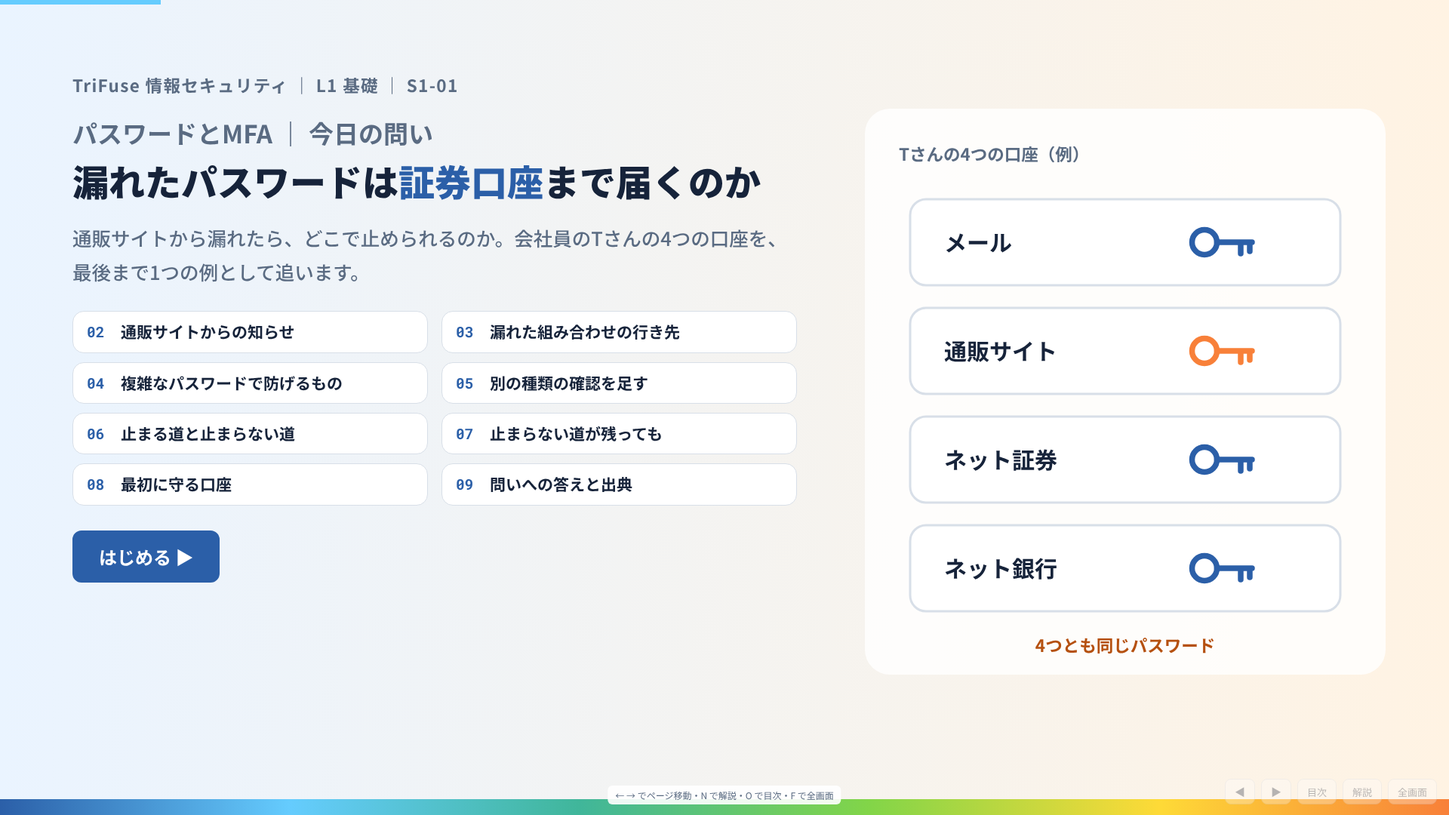
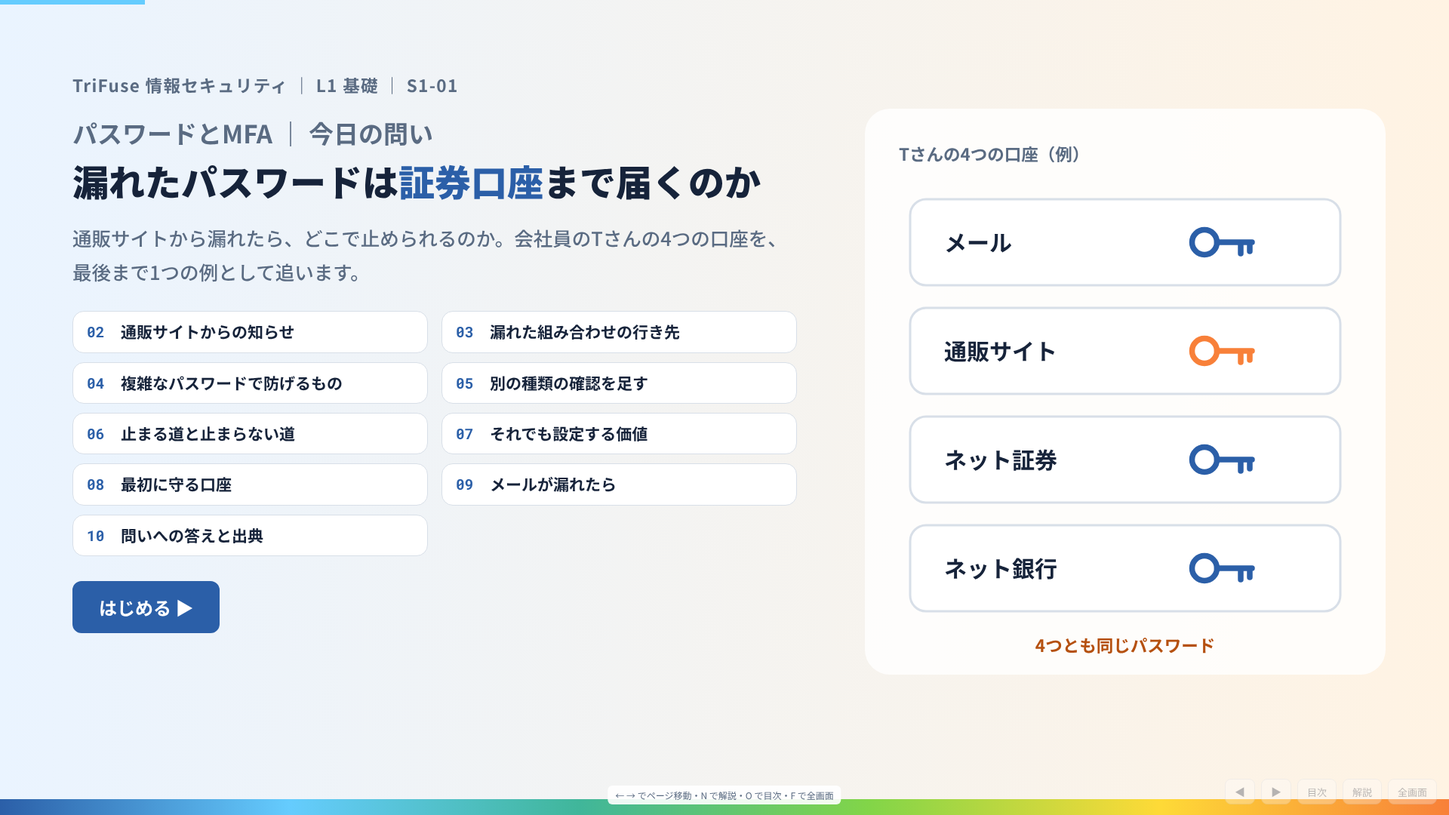
S1-01：9ページ目にメールが漏れたときのケース別を足す（10ページに、make_site v1.28）
Claude-Session: https://claude.ai/code/session_01KsCAt1ehjeTw2EQBVCmaiN

Changed region(s): [[0.0312, 0.6417, 0.1875, 0.7944], [0.3438, 0.5194, 0.4688, 0.55], [0.3438, 0.5806, 0.4375, 0.6111]]

diff --git a/list/index.html b/list/index.html
@@ -67,7 +67,7 @@ footer{margin-top:48px;padding-top:16px;border-top:1px solid var(--rule);font-si
 </div>
 <h3 class="lv" id="s1">L1 基礎（11本）</h3>
 <div class="cards">
-<article class="dk"><div class="top"><span class="code">S1-01</span><span class="pg">9ページ</span></div><a class="tt" href="../s1-01/">パスワードとMFA</a><ol><li><a href="../s1-01/#p1"><span>問い</span>漏れたパスワードは証券口座まで届くのか</a></li><li><a href="../s1-01/#p2"><span>02</span>Tさんの4つの口座は、同じメールアドレスと同じパスワード</a></li><li><a href="../s1-01/#p3"><span>03</span>漏れた組み合わせは、ほかのサービスのログイン画面でもまとめて試される</a></li><li><a href="../s1-01/#p4"><span>04</span>長く複雑にしても、漏れたパスワードはそのまま使われる</a></li><li><a href="../s1-01/#p5"><span>05</span>パスワードと別の種類の確認を足すと、漏れたパスワードだけでは入れない</a></li><li><a href="../s1-01/#p6"><span>06</span>多要素認証で止まるのは、相手がパスワードしか持っていない攻撃</a></li><li><a href="../s1-01/#p7"><span>07</span>止まらない攻撃が残っても、多要素認証は設定する価値がある</a></li><li><a href="../s1-01/#p8"><span>08</span>最初に直すのはメール。取られると、ほかの口座のパスワードまで変えられる</a></li><li><a href="../s1-01/#p9"><span>09</span>使い回すと届く。止めるのは、使い回さないことと多要素認証</a></li></ol></article>
+<article class="dk"><div class="top"><span class="code">S1-01</span><span class="pg">10ページ</span></div><a class="tt" href="../s1-01/">パスワードとMFA</a><ol><li><a href="../s1-01/#p1"><span>問い</span>漏れたパスワードは証券口座まで届くのか</a></li><li><a href="../s1-01/#p2"><span>02</span>Tさんの4つの口座は、同じメールアドレスと同じパスワード</a></li><li><a href="../s1-01/#p3"><span>03</span>漏れた組み合わせは、ほかのサービスのログイン画面でもまとめて試される</a></li><li><a href="../s1-01/#p4"><span>04</span>長く複雑にしても、漏れたパスワードはそのまま使われる</a></li><li><a href="../s1-01/#p5"><span>05</span>パスワードと別の種類の確認を足すと、漏れたパスワードだけでは入れない</a></li><li><a href="../s1-01/#p6"><span>06</span>多要素認証で止まるのは、相手がパスワードしか持っていない攻撃</a></li><li><a href="../s1-01/#p7"><span>07</span>止まらない攻撃が残っても、多要素認証は設定する価値がある</a></li><li><a href="../s1-01/#p8"><span>08</span>最初に直すのはメール。取られると、ほかの口座のパスワードまで変えられる</a></li><li><a href="../s1-01/#p9"><span>09</span>Gmail のパスワードを渡してしまったら、危なさは3つに分かれる</a></li><li><a href="../s1-01/#p10"><span>10</span>使い回すと届く。止めるのは、使い回さないことと多要素認証</a></li></ol></article>
 <article class="dk"><div class="top"><span class="code">S1-02</span><span class="pg">8ページ</span></div><a class="tt" href="../s1-02/">パスワード管理ツールという解</a><ol><li><a href="../s1-02/#p1"><span>問い</span>全部違うパスワードをどう使い続けるか</a></li><li><a href="../s1-02/#p2"><span>02</span>30個の長くてばらばらな文字列は、頭だけでは覚えておけない</a></li><li><a href="../s1-02/#p3"><span>03</span>書き留める方法は、書く場所と置く場所しだいで使える方法になる</a></li><li><a href="../s1-02/#p4"><span>04</span>管理ツールがしていることは、保管・生成・入力の3つ</a></li><li><a href="../s1-02/#p5"><span>05</span>30個の鍵が1つの鍵の後ろにまとまり、その1つが破られると全部開く</a></li><li><a href="../s1-02/#p6"><span>06</span>開く口座の数はどれも全部で、違うのは破られる入口の数</a></li><li><a href="../s1-02/#p7"><span>07</span>道具は製品の名前ではなく、5つの点を説明書きや設定画面で確かめる</a></li><li><a href="../s1-02/#p8"><span>08</span>道具に生成と保管を任せ、集まった1か所に守りを集める</a></li></ol></article>
 <article class="dk"><div class="top"><span class="code">S1-03</span><span class="pg">8ページ</span></div><a class="tt" href="../s1-03/">フィッシングと偽サイトの確認手順</a><ol><li><a href="../s1-03/#p1"><span>問い</span>本物そっくりの知らせに何を見て、どう動くか</a></li><li><a href="../s1-03/#p2"><span>02</span>平日の夜、取引しているネット証券の名前でショートメッセージが届いた</a></li><li><a href="../s1-03/#p3"><span>03</span>文面のうまさは目印にならず、見分けの失敗にも気づけない</a></li><li><a href="../s1-03/#p4"><span>04</span>相手の出来ではなく、本物の金融機関ならしないことに当てはまるかを見る</a></li><li><a href="../s1-03/#p5"><span>05</span>知らせのリンクからは入らず、自分の側から証券会社の画面を開く</a></li><li><a href="../s1-03/#p6"><span>06</span>最初の一度は、住所のドメインとアプリの提供元を読む</a></li><li><a href="../s1-03/#p7"><span>07</span>見た目で見分けるのをやめ、相手の側から照らし合わせる</a></li><li><a href="../s1-03/#p8"><span>08</span>本物がしないことで判別し、自分で用意した入口から入る</a></li></ol></article>
 <article class="dk"><div class="top"><span class="code">S1-04</span><span class="pg">9ページ</span></div><a class="tt" href="../s1-04/">OSとアプリを更新する意味</a><ol><li><a href="../s1-04/#p1"><span>問い</span>更新の通知はどれくらい後回しにしてよいか</a></li><li><a href="../s1-04/#p2"><span>02</span>鍵が強くても、端末に穴があれば、相手は鍵を通らずに入る</a></li><li><a href="../s1-04/#p3"><span>03</span>更新の中身の中心は、新しい機能ではなく、見つかった穴を塞ぐこと</a></li><li><a href="../s1-04/#p4"><span>04</span>修正が出た後は、穴の場所を誰でも知ることができる</a></li><li><a href="../s1-04/#p5"><span>05</span>後回しにした期間が長いほど、危険は大きくなる</a></li><li><a href="../s1-04/#p6"><span>06</span>配布が終わった端末では、穴が見つかっても二度と塞がらない</a></li><li><a href="../s1-04/#p7"><span>07</span>S0-EX で数えた入口を、更新する順に並べ直し、自動更新に任せる</a></li><li><a href="../s1-04/#p8"><span>08</span>防げない穴が残るなら、その穴から届く範囲を決めておく</a></li><li><a href="../s1-04/#p9"><span>09</span>配られたら早いうちに。仕組みに任せ、塞げない端末は切り離す</a></li></ol></article>
@@ -303,7 +303,7 @@ footer{margin-top:48px;padding-top:16px;border-top:1px solid var(--rule);font-si
 <article class="dk"><div class="top"><span class="code">E3-EX</span><span class="pg">7ページ</span></div><a class="tt" href="../e3-ex/">卒業課題：波及経路と反証条件を明示して読む</a><ol><li><a href="../e3-ex/#p1"><span>問い</span>読み筋を三手先まで、外れる条件つきで書く</a></li><li><a href="../e3-ex/#p2"><span>02</span>1本のニュースから、1つの読み筋を三手先まで、条件と外れる条件つきで</a></li><li><a href="../e3-ex/#p3"><span>03</span>書くことは5つ。中心は三手の読み筋と、段ごとの出典</a></li><li><a href="../e3-ex/#p4"><span>04</span>三手を経路の名前で書き、対立する見方と反証条件を添える</a></li><li><a href="../e3-ex/#p5"><span>05</span>運営が見るのは、3つの評価軸だけ。当たり外れは見ない</a></li><li><a href="../e3-ex/#p6"><span>06</span>題材は、官公庁や中央銀行の決定や統計を報じた公表済みのニュースに限る</a></li><li><a href="../e3-ex/#p7"><span>07</span>三手の読み筋を、段ごとの出典、対立する見方、反証条件で支える</a></li></ol></article>
 </div>
 </section>
-<footer>make_site v1.27（s0-01 50c2e74a・s0-02 2e95fb85・s0-ex f2a050db・a0-01 30b2ef9f・a0-02 78939ab9・a0-ex e6d43d4a・f0-01 23dde620・f0-02 466eb6ce・f0-03 c23f17cb・f0-04 93c8d941・f0-ex cd29c841・e0-01 535e488a・e0-02 5b2a3c6a・e0-ex 70aa4361・f1-01 b1ec7614・f1-02 4248ca1f・f1-03 e6e039cd・f1-04 368722ae・f1-05 02fb2ad5・f1-06 9df6d592・f1-07 f7a43dd8・f1-08 fb1232a5・f1-09 1fbb41cd・f1-10 af3f724b・s1-01 8301629d・s1-02 c4ace705・s1-03 8658725b・s1-04 1f29bea3・s1-05 d9ac88dd・s1-06 4d6f40f9・s1-07 95ee285b・s1-08 63af92dc・s1-09 24c21369・s1-10 9bf7b858・s1-ex 2dfb9175・s2-01 7470b37d・s2-02 7f980b8d・s2-03 fa460cf1・s2-04 7ffccece・s2-05 77ae8dc8・s2-06 7869209f・s2-07 7caf2a14・s2-08 4cd032ba・s2-ex 2f635534・s3-01 da4874a0・s3-02 259b2144・s3-03 93bee158・s3-04 03857286・s3-05 9c42f2e6・s3-ex 76a0d264・e1-01 fc9b31af・e1-02 5c5e348d・e1-03 f86e2122・e1-04 194b747e・e1-05 c1cf74e7・e1-06 bd4efdfd・e1-07 1fe7a9b3・e1-08 0a1dd70c・e1-09 50465a95・e1-10 e3c3ba2a・e1-11 4628654f・e1-12 245bc4da・e1-13 ab06cdf1・e1-14 044a8cbd・e1-15 de018357・e1-ex 89614912・e2-01 975ae973・e2-02 7dcfab0f・e2-03 b7b9740d・e2-04 a0c0fb98・e2-05 b945e59f・e2-06 1c936bb3・e2-07 f6f75079・e2-08 764212d4・e2-09 468568ed・e2-10 14f22e24・e2-11 65fec2db・e2-12 df8c0d86・e2-13 2373069f・e2-14 ff93b6b6・e2-15 e479bb8b・e2-16 cb75bd6b・e2-ex 6f46024e・e3-01 d52bfad5・e3-02 0c58a283・e3-03 9bcc544b・e3-04 0a2f126d・e3-05 86b81abc・e3-06 55349d35・e3-07 8c4f6452・e3-08 b99023ff・e3-09 1ea73cfd・e3-10 130f9a3c・e3-11 5dc98598・e3-12 5aca9351・e3-ex f8f0f251・a1-01 68d581dd・a1-02 2eeea5a8・a1-03 dd2515aa・a1-04 de7e056e・a1-05 753451d6・a1-06 8b516ba0・a1-07 adc351e2・a1-08 b57ade39・a1-09 4f46370e・a1-10 f8bde4ba・a1-11 6d1ac03b・a1-12 e2b1858f・a1-13 394cf086・a1-14 0d8a5118・a1-15 61883536・a1-ex 5a31e835・a2-01 485b79c6・a2-02 f2960554・a2-03 a0b903a1・a2-04 3cbc8980・a2-05 34fb165d・a2-06 612fdedc・a2-07 e5cc3416・a2-08 d6aceae6・a2-09 a963fcb9・a2-10 fb538646・a2-11 b8d90223・a2-12 318d8d56・a2-13 45a48123・a2-14 5aaf12a2・a2-15 43175f4e・a2-ex 8b384fc0・a3-01 7888de0a・a3-02 f2db5215・a3-03 a34a814a・a3-04 7e45d770・a3-05 db0a0bbb・a3-06 8aabccfb・a3-07 b32d217e・a3-08 62e132bf・a3-09 b63f1fd4・a3-ex b555a2f9・f1-11 4b3ff8bd・f1-12 f3f86691・f1-13 815f7bdb・f1-14 8ccc8ff5・f1-15 500715f7・f1-16 357fca0f・f1-17 558ea82c・f1-18 a9a7c3b0・f1-19 18ccc510・f1-20 ed9f4f46・f1-21 47e66df5・f1-ex a5aa7e87・f2-01 7b7753f1・f2-02 0a5c108f・f2-03 f8443962・f2-04 8383e45b・f2-05 4906fbea・f2-06 6d34c7d4・f2-07 3ef5bdf6・f2-08 8793d7d5・f2-09 73bc4a2e・f2-10 735a24c6・f2-11 55e826f9・f2-12 48038aeb・f2-13 b78d1a7c・f2-14 620bfa7b・f2-15 680d8937・f2-16 d8683e4d・f2-17 361013fd・f2-18 52920b59・f2-19 b5989e18・f2-20 8d1165b5・f2-21 735b847d・f2-ex a68b9c76・f3-01 fa5fa1f5・f3-02 50b2f21f・f3-03 5a822b7b・f3-04 634a6316・f3-05 3b3f0a4b・f3-06 b58c204e・f3-07 8182bd1b・f3-08 a7c8b43a・f3-09 12ed2900・f3-10 6cdd39f6・f3-11 d6827457・f3-12 06a24e81・f3-13 974d8c4d・f3-14 7a5d4bd0・f3-15 e2d7719f・f3-16 8abb0893・f3-ex f4736045）</footer>
+<footer>make_site v1.28（s0-01 50c2e74a・s0-02 2e95fb85・s0-ex f2a050db・a0-01 30b2ef9f・a0-02 78939ab9・a0-ex e6d43d4a・f0-01 23dde620・f0-02 466eb6ce・f0-03 c23f17cb・f0-04 93c8d941・f0-ex cd29c841・e0-01 535e488a・e0-02 5b2a3c6a・e0-ex 70aa4361・f1-01 b1ec7614・f1-02 4248ca1f・f1-03 e6e039cd・f1-04 368722ae・f1-05 02fb2ad5・f1-06 9df6d592・f1-07 f7a43dd8・f1-08 fb1232a5・f1-09 1fbb41cd・f1-10 af3f724b・s1-01 a51aae27・s1-02 c4ace705・s1-03 8658725b・s1-04 1f29bea3・s1-05 d9ac88dd・s1-06 4d6f40f9・s1-07 95ee285b・s1-08 63af92dc・s1-09 24c21369・s1-10 9bf7b858・s1-ex 2dfb9175・s2-01 7470b37d・s2-02 7f980b8d・s2-03 fa460cf1・s2-04 7ffccece・s2-05 77ae8dc8・s2-06 7869209f・s2-07 7caf2a14・s2-08 4cd032ba・s2-ex 2f635534・s3-01 da4874a0・s3-02 259b2144・s3-03 93bee158・s3-04 03857286・s3-05 9c42f2e6・s3-ex 76a0d264・e1-01 fc9b31af・e1-02 5c5e348d・e1-03 f86e2122・e1-04 194b747e・e1-05 c1cf74e7・e1-06 bd4efdfd・e1-07 1fe7a9b3・e1-08 0a1dd70c・e1-09 50465a95・e1-10 e3c3ba2a・e1-11 4628654f・e1-12 245bc4da・e1-13 ab06cdf1・e1-14 044a8cbd・e1-15 de018357・e1-ex 89614912・e2-01 975ae973・e2-02 7dcfab0f・e2-03 b7b9740d・e2-04 a0c0fb98・e2-05 b945e59f・e2-06 1c936bb3・e2-07 f6f75079・e2-08 764212d4・e2-09 468568ed・e2-10 14f22e24・e2-11 65fec2db・e2-12 df8c0d86・e2-13 2373069f・e2-14 ff93b6b6・e2-15 e479bb8b・e2-16 cb75bd6b・e2-ex 6f46024e・e3-01 d52bfad5・e3-02 0c58a283・e3-03 9bcc544b・e3-04 0a2f126d・e3-05 86b81abc・e3-06 55349d35・e3-07 8c4f6452・e3-08 b99023ff・e3-09 1ea73cfd・e3-10 130f9a3c・e3-11 5dc98598・e3-12 5aca9351・e3-ex f8f0f251・a1-01 68d581dd・a1-02 2eeea5a8・a1-03 dd2515aa・a1-04 de7e056e・a1-05 753451d6・a1-06 8b516ba0・a1-07 adc351e2・a1-08 b57ade39・a1-09 4f46370e・a1-10 f8bde4ba・a1-11 6d1ac03b・a1-12 e2b1858f・a1-13 394cf086・a1-14 0d8a5118・a1-15 61883536・a1-ex 5a31e835・a2-01 485b79c6・a2-02 f2960554・a2-03 a0b903a1・a2-04 3cbc8980・a2-05 34fb165d・a2-06 612fdedc・a2-07 e5cc3416・a2-08 d6aceae6・a2-09 a963fcb9・a2-10 fb538646・a2-11 b8d90223・a2-12 318d8d56・a2-13 45a48123・a2-14 5aaf12a2・a2-15 43175f4e・a2-ex 8b384fc0・a3-01 7888de0a・a3-02 f2db5215・a3-03 a34a814a・a3-04 7e45d770・a3-05 db0a0bbb・a3-06 8aabccfb・a3-07 b32d217e・a3-08 62e132bf・a3-09 b63f1fd4・a3-ex b555a2f9・f1-11 4b3ff8bd・f1-12 f3f86691・f1-13 815f7bdb・f1-14 8ccc8ff5・f1-15 500715f7・f1-16 357fca0f・f1-17 558ea82c・f1-18 a9a7c3b0・f1-19 18ccc510・f1-20 ed9f4f46・f1-21 47e66df5・f1-ex a5aa7e87・f2-01 7b7753f1・f2-02 0a5c108f・f2-03 f8443962・f2-04 8383e45b・f2-05 4906fbea・f2-06 6d34c7d4・f2-07 3ef5bdf6・f2-08 8793d7d5・f2-09 73bc4a2e・f2-10 735a24c6・f2-11 55e826f9・f2-12 48038aeb・f2-13 b78d1a7c・f2-14 620bfa7b・f2-15 680d8937・f2-16 d8683e4d・f2-17 361013fd・f2-18 52920b59・f2-19 b5989e18・f2-20 8d1165b5・f2-21 735b847d・f2-ex a68b9c76・f3-01 fa5fa1f5・f3-02 50b2f21f・f3-03 5a822b7b・f3-04 634a6316・f3-05 3b3f0a4b・f3-06 b58c204e・f3-07 8182bd1b・f3-08 a7c8b43a・f3-09 12ed2900・f3-10 6cdd39f6・f3-11 d6827457・f3-12 06a24e81・f3-13 974d8c4d・f3-14 7a5d4bd0・f3-15 e2d7719f・f3-16 8abb0893・f3-ex f4736045）</footer>
 </main>
 <script>
 (()=>{const $=(s,r=document)=>r.querySelector(s),$$=(s,r=document)=>[...r.querySelectorAll(s)];

diff --git a/s1-01/index.html b/s1-01/index.html
@@ -339,7 +339,7 @@ svg .sv{transform:none}
       <div class="cover-q fade d2">パスワードとMFA ｜ 今日の問い</div>
       <h1 class="head fade d2">漏れたパスワードは<span class="hl2">証券口座</span>まで届くのか</h1>
       <p class="sub fade d3">通販サイトから漏れたら、どこで止められるのか。会社員のTさんの4つの口座を、最後まで1つの例として追います。</p>
-      <div class="toc fade d4"><button data-go="1"><span class="n">02</span>通販サイトからの知らせ</button><button data-go="2"><span class="n">03</span>漏れた組み合わせの行き先</button><button data-go="3"><span class="n">04</span>複雑なパスワードで防げるもの</button><button data-go="4"><span class="n">05</span>別の種類の確認を足す</button><button data-go="5"><span class="n">06</span>止まる道と止まらない道</button><button data-go="6"><span class="n">07</span>止まらない道が残っても</button><button data-go="7"><span class="n">08</span>最初に守る口座</button><button data-go="8"><span class="n">09</span>問いへの答えと出典</button></div>
+      <div class="toc fade d4"><button data-go="1"><span class="n">02</span>通販サイトからの知らせ</button><button data-go="2"><span class="n">03</span>漏れた組み合わせの行き先</button><button data-go="3"><span class="n">04</span>複雑なパスワードで防げるもの</button><button data-go="4"><span class="n">05</span>別の種類の確認を足す</button><button data-go="5"><span class="n">06</span>止まる道と止まらない道</button><button data-go="6"><span class="n">07</span>それでも設定する価値</button><button data-go="7"><span class="n">08</span>最初に守る口座</button><button data-go="8"><span class="n">09</span>メールが漏れたら</button><button data-go="9"><span class="n">10</span>問いへの答えと出典</button></div>
       <button class="btn pr start fade d5" data-go="1">はじめる ▶</button>
     </div>
     <svg class="cover-ill" viewBox="0 0 460 500" aria-label="4つの口座に同じ鍵"><rect width="460" height="500" rx="22" fill="#fff" opacity=".8"/><g transform="scale(0.666667)"><text x="45" y="69" font-size="22.5" font-weight="700" fill="#5A6B82">Tさんの4つの口座（例）</text></g><rect x="40" y="80" width="380" height="76" rx="14" fill="#fff" stroke="#D8DFE8" stroke-width="2"/><g transform="scale(0.666667)"><text x="105" y="189" font-size="30" font-weight="700" fill="#16233A">メール</text></g><g transform="translate(300 118) scale(1.0)"><circle cx="0" cy="0" r="11" fill="none" stroke="#2B5FA8" stroke-width="5"/><path d="M11 0H42M32 0V10M40 0V8" stroke="#2B5FA8" stroke-width="5" stroke-linecap="round"/></g><rect x="40" y="176" width="380" height="76" rx="14" fill="#fff" stroke="#D8DFE8" stroke-width="2"/><g transform="scale(0.666667)"><text x="105" y="333" font-size="30" font-weight="700" fill="#16233A">通販サイト</text></g><g transform="translate(300 214) scale(1.0)"><circle cx="0" cy="0" r="11" fill="none" stroke="#F88039" stroke-width="5"/><path d="M11 0H42M32 0V10M40 0V8" stroke="#F88039" stroke-width="5" stroke-linecap="round"/></g><rect x="40" y="272" width="380" height="76" rx="14" fill="#fff" stroke="#D8DFE8" stroke-width="2"/><g transform="scale(0.666667)"><text x="105" y="477" font-size="30" font-weight="700" fill="#16233A">ネット証券</text></g><g transform="translate(300 310) scale(1.0)"><circle cx="0" cy="0" r="11" fill="none" stroke="#2B5FA8" stroke-width="5"/><path d="M11 0H42M32 0V10M40 0V8" stroke="#2B5FA8" stroke-width="5" stroke-linecap="round"/></g><rect x="40" y="368" width="380" height="76" rx="14" fill="#fff" stroke="#D8DFE8" stroke-width="2"/><g transform="scale(0.666667)"><text x="105" y="621" font-size="30" font-weight="700" fill="#16233A">ネット銀行</text></g><g transform="translate(300 406) scale(1.0)"><circle cx="0" cy="0" r="11" fill="none" stroke="#2B5FA8" stroke-width="5"/><path d="M11 0H42M32 0V10M40 0V8" stroke="#2B5FA8" stroke-width="5" stroke-linecap="round"/></g><g transform="scale(0.666667)"><text x="345" y="720" text-anchor="middle" font-size="22.5" font-weight="700" fill="#B5500F">4つとも同じパスワード</text></g></svg>
@@ -508,8 +508,22 @@ svg .sv{transform:none}
   </div>
 </section>
 
-<section id="p9" class="slide page hasbr" data-n="sum">
-  <header class="hd"><span class="chap">問いへの答えと出典</span><h2 class="head">使い回すと届く。止めるのは、使い回さないことと多要素認証</h2><span class="num">09</span></header><p class="bridge"><b class="bk">今日の問い</b><span>通販サイトから漏れたパスワードは、証券口座まで届くのか。届くなら、どこで止められるのか</span></p>
+<section id="p9" class="slide page hasbr" data-n="s6b" data-steps="3">
+  <header class="hd"><span class="chap">6. 最初に守る口座</span><h2 class="head">Gmail のパスワードを渡してしまったら、危なさは3つに分かれる</h2><span class="num">09</span></header><p class="bridge"><b class="bk">前で分かったこと</b><span>メールに入られると、証券口座のパスワードも作り直される</span><i class="ar">→</i><b class="bk now">ここで見ること</b><span>偽サイトで Gmail のパスワードを打ってしまったら</span></p>
+  <div class="body" style="display:flex;flex-direction:column;gap:15px">
+    <div class="quote fade d1">Tさんが偽のログイン画面に、Gmail のアドレスとパスワードを打ってしまった。証券口座の登録アドレスは、この Gmail のまま。</div>
+    <div class="stepbar"><b style="font-size:22.5px">ケースごとに見る</b><button class="btn pr" data-next>次の段階 ▶</button><button class="btn" data-reset>はじめから</button><span class="hint">→キーでも進みます</span></div>
+    <div class="card fade d2" style="padding:6px 12px">
+      <table class="atk" style="width:100%;border-collapse:collapse">
+        <tr><th style="text-align:left;padding:10px 18px;font-size:21px;color:#5A6B82;border-bottom:3px solid #D8DFE8;width:27%">ケース</th><th style="text-align:left;padding:10px 18px;font-size:21px;color:#5A6B82;border-bottom:3px solid #D8DFE8;width:25%">証券口座は</th><th style="text-align:left;padding:10px 18px;font-size:21px;color:#5A6B82;border-bottom:3px solid #D8DFE8">やること</th></tr>
+        <tr><td style="padding:15px 18px;border-bottom:1.5px solid #D8DFE8;font-size:21px;line-height:1.55;vertical-align:top;font-weight:700;color:var(--ink)">A. Gmail に多要素認証を付けていた</td><td style="padding:15px 18px;border-bottom:1.5px solid #D8DFE8;font-size:21px;line-height:1.55;vertical-align:top;background:#E7F6F1;color:#1F7A63;font-weight:700">守られる<br><span style="font-weight:400;font-size:18px">相手は確認コードが無く、Gmail に入れない</span></td><td style="padding:15px 18px;border-bottom:1.5px solid #D8DFE8;font-size:21px;line-height:1.55;vertical-align:top">Gmail のパスワードを変える。<br>登録アドレスはそのままでよい。<br><span style="font-size:18px;color:#5A6B82">※確認コードまで偽の画面に打っていたら B と同じ</span></td></tr><tr class="sv" data-s="1"><td style="padding:15px 18px;border-bottom:1.5px solid #D8DFE8;font-size:21px;line-height:1.55;vertical-align:top;font-weight:700;color:var(--ink)">B. 多要素認証なし。すぐ気づいて Gmail を取り戻せた</td><td style="padding:15px 18px;border-bottom:1.5px solid #D8DFE8;font-size:21px;line-height:1.55;vertical-align:top;background:#FDF1E7;color:#B5500F;font-weight:700">危ない<br><span style="font-weight:400;font-size:18px">証券口座の再設定メールを読まれるおそれ</span></td><td style="padding:15px 18px;border-bottom:1.5px solid #D8DFE8;font-size:21px;line-height:1.55;vertical-align:top">Gmail のパスワードを変え、ほかの端末のログインを切る。多要素認証を付け、転送の設定を確かめる。<br>取り戻せれば、登録アドレスはそのままでよい。</td></tr><tr class="sv" data-s="2"><td style="padding:15px 18px;border-bottom:1.5px solid #D8DFE8;font-size:21px;line-height:1.55;vertical-align:top;font-weight:700;color:var(--ink)">C. Gmail を取り戻せない（復旧用の連絡先まで書き換えられた）</td><td style="padding:15px 18px;border-bottom:1.5px solid #D8DFE8;font-size:21px;line-height:1.55;vertical-align:top;background:#FBE9E7;color:#B42318;font-weight:700">とても危ない<br><span style="font-weight:400;font-size:18px">証券口座の再設定を相手に握られたまま</span></td><td style="padding:15px 18px;border-bottom:1.5px solid #D8DFE8;font-size:21px;line-height:1.55;vertical-align:top">すぐ証券会社に連絡して取引を止めてもらい、登録アドレスを別のものに変えてもらう。</td></tr>
+      </table>
+    </div>
+    <div class="sv" data-s="3"><p class="ans"><b>要は</b>アドレスを変えるかより先に、Gmail に入られないこと、入られたらすぐ取り戻すこと</p></div>
+  </div>
+</section>
+<section id="p10" class="slide page hasbr" data-n="sum">
+  <header class="hd"><span class="chap">問いへの答えと出典</span><h2 class="head">使い回すと届く。止めるのは、使い回さないことと多要素認証</h2><span class="num">10</span></header><p class="bridge"><b class="bk">今日の問い</b><span>通販サイトから漏れたパスワードは、証券口座まで届くのか。届くなら、どこで止められるのか</span></p>
   <div class="body sumb" style="display:grid;grid-template-columns:1.15fr 1fr;gap:33px">
     <div class="kp" style="gap:15px">
       <div class="card fade d1 a3"><span class="no">1</span><div><h4>使い回していれば、証券口座まで届く</h4><p>使い回していなければ、被害は通販サイト1つで止まる</p></div></div><div class="card fade d2 a3"><span class="no">2</span><div><h4>多要素認証で、漏れたパスワードだけでは入れない</h4><p>ただし、偽の画面や乗っ取られた端末では止まらない</p></div></div><div class="card fade d3 a3"><span class="no">3</span><div><h4>最初に守るのはメール</h4><p>取られると、ほかの口座のパスワードまで変えられる</p></div></div>
@@ -577,6 +591,7 @@ svg .sv{transform:none}
 <p>S0-EX で入口を数えたとき、メールアドレスがほかのサービスの「パスワードを忘れた方」の届け先になっていることに気づいた人も多いはずです。メールに入られると、相手は証券口座や銀行のパスワードを知らなくても、再設定の手続きで新しいパスワードを決められます。メールの鍵は、ほかの口座の鍵を作り直せる親の鍵にあたります。この親子の関係を詳しく見るのは S2-08 です。</p>
 <p>Tさんがまずやることは、メールのパスワードをほかのどこでも使っていないものに変えることと、メールに多要素認証を設定することです。証券口座と銀行はその次になります。</p>
 <p>ただ、4つのサービスにそれぞれ違う長いパスワードを付けると、今度は覚えきれなくなります。次の S1-02 では、全部違うパスワードを無理なく使い続けるための道具を扱います。</p></div>
+<div class="notes-src" id="notes-s6b"><h5 style="font-size:15px;margin:8px 0 6px">メールが漏れたら（ケース別）</h5><p>Tさんが偽のログイン画面に Gmail のアドレスとパスワードを打ってしまった場合を、3つに分けます。A：Gmail に多要素認証を付けていれば、相手は確認コードが無いので Gmail に入れません。Gmail のパスワードを変えれば済み、証券口座の登録アドレスはそのままでかまいません。ただし、確認コードまで偽の画面に打っていた場合は B と同じです。B：多要素認証が無いと、相手は Gmail に入り、証券口座の「パスワードを忘れた方」から届く再設定のメールを読めてしまいます。すぐ Gmail のパスワードを変え、ほかの端末のログインを切り、多要素認証を付けます。再設定のメールを相手に転送する設定を仕込まれていないかも確かめます（転送の確認は書き手の補足）。取り戻せれば、相手の持つ古いパスワードでは入れないので、登録アドレスはそのままでよいです。C：復旧用の電話番号やメールまで書き換えられて Gmail を取り戻せないときは、証券口座の再設定を相手に握られたままです。すぐ証券会社に連絡して取引を止めてもらい、登録アドレスを変えてもらいます。</p></div>
 <div class="notes-src" id="notes-sum"><h5 style="font-size:15px;margin:8px 0 6px">説明と推奨の分離（G-28）</h5>
 <p><b>このノートは事実と構造の説明であって、推奨ではありません。</b></p>
 <p>引き受けたのは、次の一点だけです。</p>
